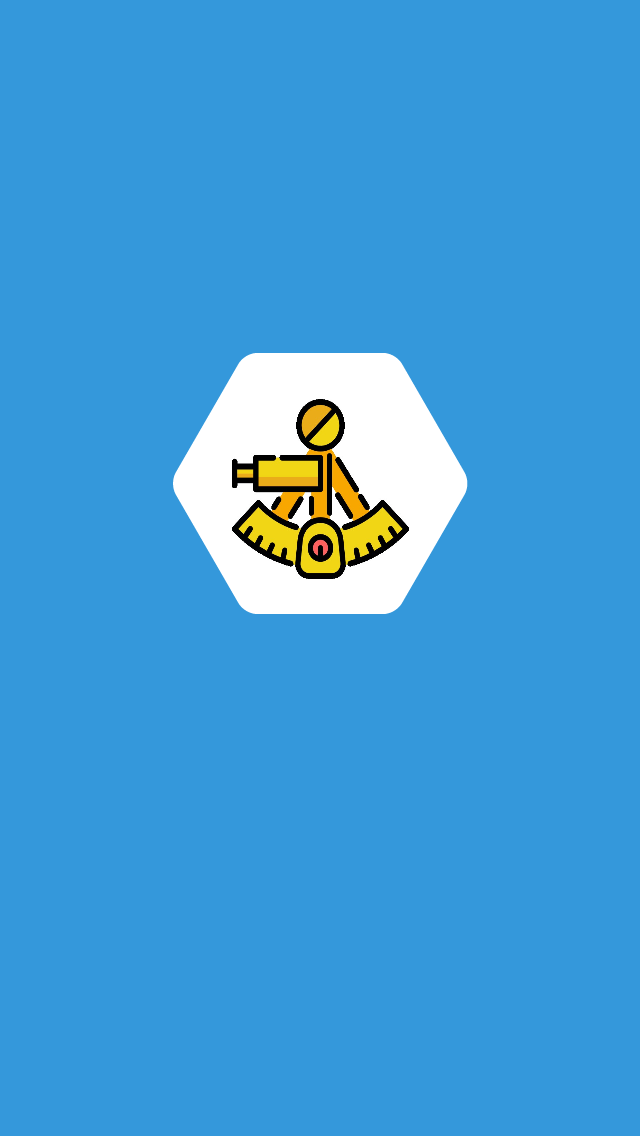
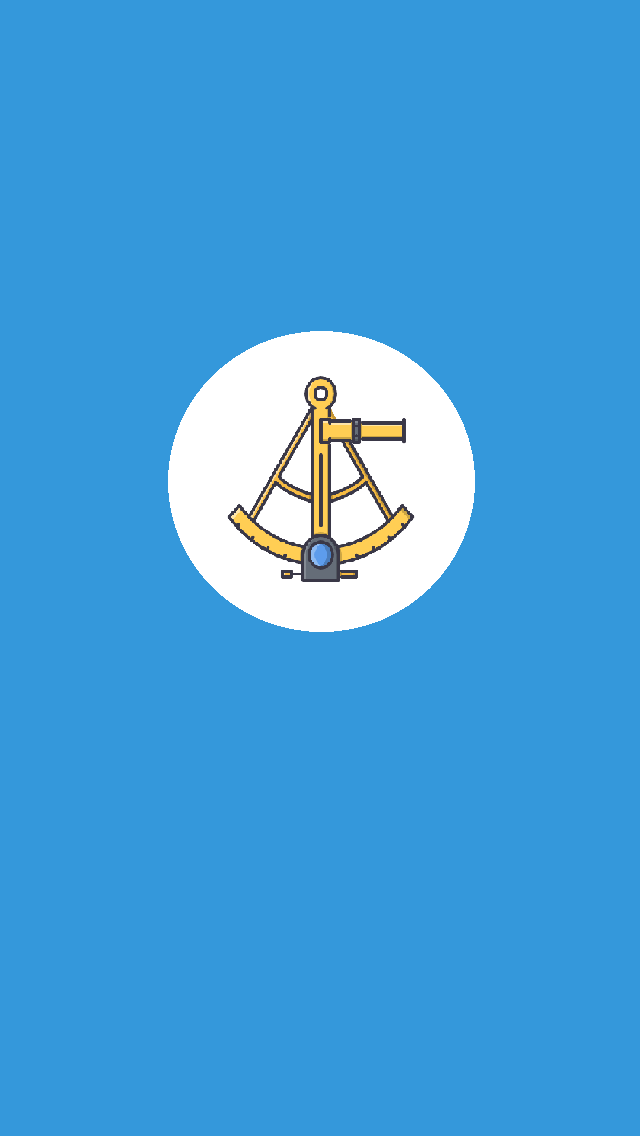
JB - add about

Changed region(s): [[0.25, 0.2773, 0.75, 0.5546]]

diff --git a/SextantHelper/SextantHelper/PageAbout.cs b/SextantHelper/SextantHelper/PageAbout.cs
@@ -1,7 +1,6 @@
-using Xamarin.Forms;
+using System;
 using System.Reflection;
-using System;
-using Xamarin.Essentials;
+using Xamarin.Forms;
 
 namespace SextantHelper
 {
@@ -9,21 +8,14 @@ namespace SextantHelper
     {
         public PageAbout()
         {
-            const string cSTR_ABOUT = "Shared for educational purposes. No warranties expressed or implied. Content copyright of originators & shared with their consent. Logo courtesy flaticon.com";
-            const string cWEB = "github.com/jimbowyer/SextantHelper";
+            const string cSTR_TOP = "Sextant Helper - From Red Lid";
+            const string cSTR_ABOUT = "Sextant Helper aims to help you capture celestial observations from a Sextant. It does not replace the need for a sextant. Content copyright of originators & shared with their consent.";
+            
             var assembly = typeof(SextantHelper.App).GetTypeInfo().Assembly;
             var assemName = new AssemblyName(assembly.FullName);
             string sVersion = "Version: " + assemName.Version.ToString();
 
             BackgroundColor = Color.White;
-
-            Button btnLink = new Button() { Text = cWEB, TextColor = Color.Blue };
-            btnLink.Clicked += (sender, args) =>
-            {
-                Uri uri = new Uri("http://" + cWEB);
-                Launcher.OpenAsync(uri);
-            };
-
             Content = new StackLayout
             {
                 HorizontalOptions = LayoutOptions.Center,
@@ -31,20 +23,18 @@ namespace SextantHelper
                 Padding = new Thickness(5),
                 Spacing = 30,
                 Children = {
+                    new Label { Text = cSTR_TOP, TextColor= Color.Black, HorizontalTextAlignment= TextAlignment.Center},
                     new Image
                     {
-                        Source = "about.jpg",
+                        Source = "sextant_about.png",
                         IsVisible = true,
                         VerticalOptions = LayoutOptions.Start,
                         HorizontalOptions = LayoutOptions.Center
                     },
                     new Label { Text = sVersion, TextColor= Color.Black, HorizontalTextAlignment= TextAlignment.Center},
-                    new Label { Text = cSTR_ABOUT, TextColor= Color.Black, HorizontalTextAlignment= TextAlignment.Center},
-                    btnLink
+                    new Label { Text = cSTR_ABOUT, TextColor= Color.Black, HorizontalTextAlignment= TextAlignment.Center},                    
                 }
             };
-
-        } //PageAbout
-    }
-}
-
+        } //ctor
+    } //class
+} //ns

diff --git a/SextantHelper/SextantHelper.Android/Properties/AssemblyInfo.cs b/SextantHelper/SextantHelper.Android/Properties/AssemblyInfo.cs
@@ -11,7 +11,7 @@ using Android.App;
 [assembly: AssemblyConfiguration("")]
 [assembly: AssemblyCompany("")]
 [assembly: AssemblyProduct("SextantHelper.Android")]
-[assembly: AssemblyCopyright("Copyright ©  2023")]
+[assembly: AssemblyCopyright("Copyright ©  2014")]
 [assembly: AssemblyTrademark("")]
 [assembly: AssemblyCulture("")]
 [assembly: ComVisible(false)]
@@ -22,8 +22,8 @@ using Android.App;
 //      Minor Version 
 //      Build Number
 //      Revision
-[assembly: AssemblyVersion("1.0.1.0")]
-[assembly: AssemblyFileVersion("1.0.1.0")]
+[assembly: AssemblyVersion("1.0.0.1")]
+[assembly: AssemblyFileVersion("1.0.0.1")]
 
 // Add some common permissions, these can be removed if not needed
 [assembly: UsesPermission(Android.Manifest.Permission.Internet)]

diff --git a/SextantHelper/SextantHelper.iOS/Properties/AssemblyInfo.cs b/SextantHelper/SextantHelper.iOS/Properties/AssemblyInfo.cs
@@ -10,7 +10,7 @@ using System.Runtime.InteropServices;
 [assembly: AssemblyConfiguration("")]
 [assembly: AssemblyCompany("")]
 [assembly: AssemblyProduct("SextantHelper.iOS")]
-[assembly: AssemblyCopyright("Copyright ©  2023")]
+[assembly: AssemblyCopyright("Copyright ©  2014")]
 [assembly: AssemblyTrademark("")]
 [assembly: AssemblyCulture("")]
 
@@ -32,5 +32,5 @@ using System.Runtime.InteropServices;
 // You can specify all the values or you can default the Build and Revision Numbers 
 // by using the '*' as shown below:
 // [assembly: AssemblyVersion("1.0.*")]
-[assembly: AssemblyVersion("1.0.1.0")]
-[assembly: AssemblyFileVersion("1.0.1.0")]
+[assembly: AssemblyVersion("1.0.0.1")]
+[assembly: AssemblyFileVersion("1.0.0.1")]

diff --git a/SextantHelper/SextantHelper/PageMain.cs b/SextantHelper/SextantHelper/PageMain.cs
@@ -1,4 +1,5 @@
-using Xamarin.Forms;
+
+using Xamarin.Forms;
 
 namespace SextantHelper
 {
@@ -6,6 +7,7 @@ namespace SextantHelper
     {
         public PageMain()
         {
+
             this.Children.Add(new PageSky
             {
                 Title = "Sky Info",
@@ -24,10 +26,9 @@ namespace SextantHelper
 
             this.Children.Add(new PageAbout
             {
-                Title = "About"
+                Title = "About",
             });
-
-
+           
         } //ctor
     } //class PageMain 
 }
